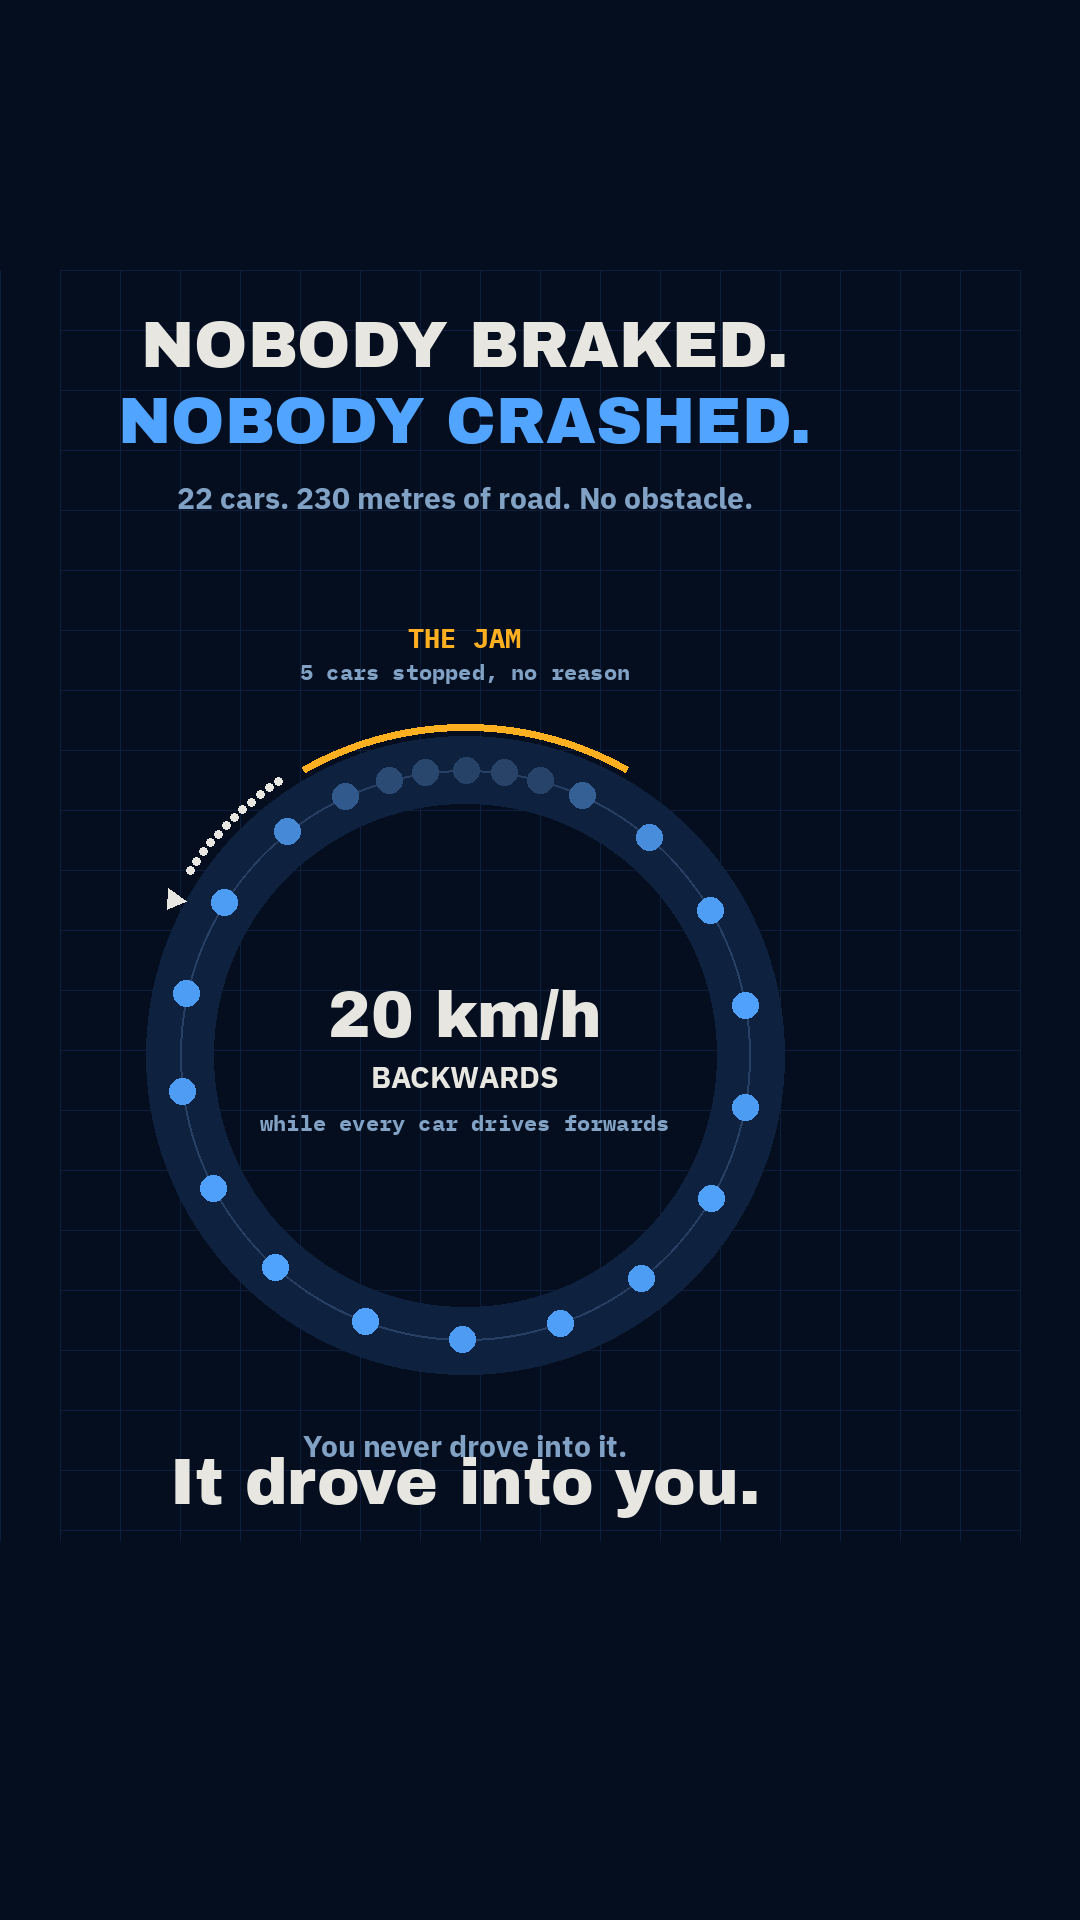
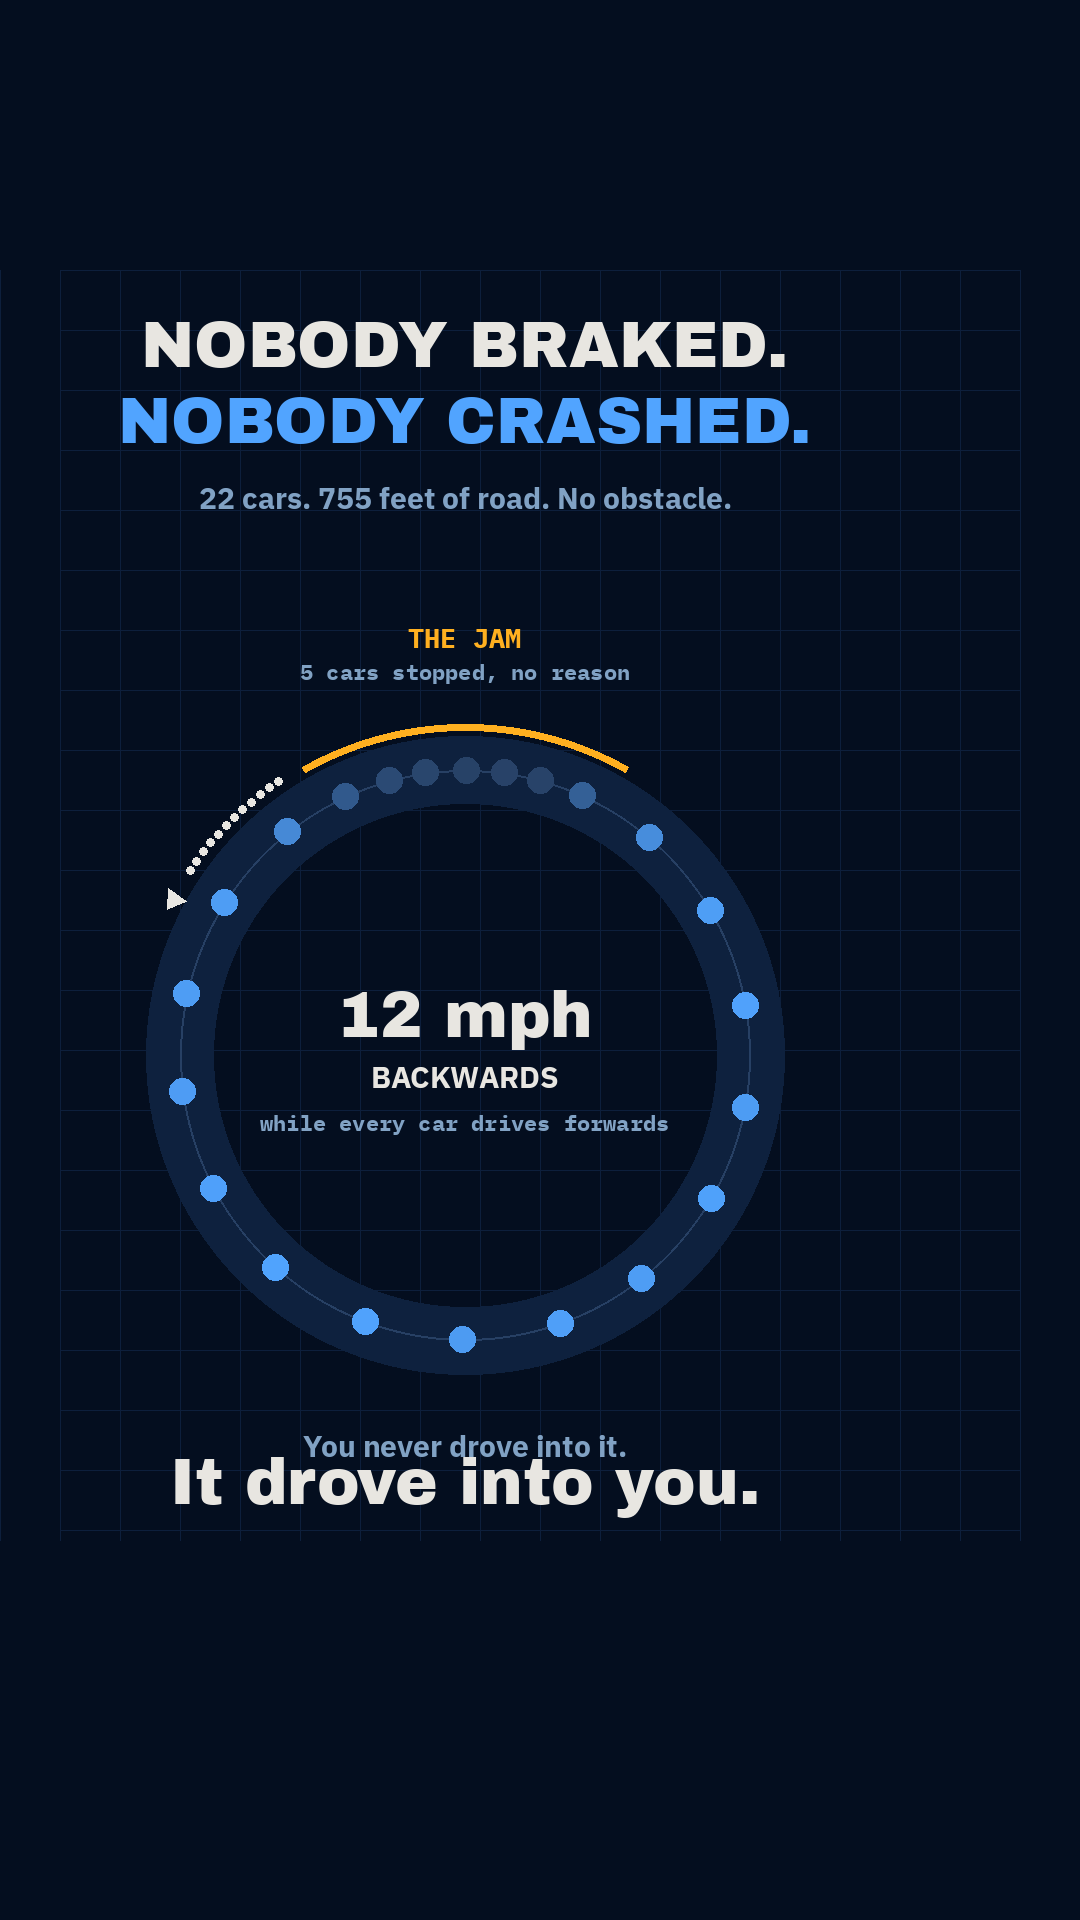
I65: rewrite beat 6, and localise the reel to US units and US words
Beat 6 read "ONE CAR IN TWENTY-TWO / JUST LEFT THE GAP. / 40% LESS FUEL."
The first human to read it asked what it meant, which is the script gate doing
its job for the price of a line of markdown rather than a build cycle.

Two real defects:
  - "left the gap" is ambiguous (departed it, or allowed it to remain?) and only
    parses correctly if you already know the answer. Also British phrasing.
  - "40% LESS FUEL" states no base, breaking non-negotiable 7. It is the whole
    fleet's consumption against the same 22 cars on the same track with the wave
    running, and neither half was on screen.

Now: "ONE CAR IN TWENTY-TWO / STOPPED CHASING THE CAR AHEAD. / EVERY CAR BURNED
40% LESS GAS." with the base and the source on the credit line. The jam
dissolving is shown by the animation and no longer narrated.

Localisation: feet and mph on screen, and US vocabulary throughout - highway not
motorway, gas not petrol, road not tarmac. Reach is this account's problem and
the US pool dominates it, so this is a distribution decision.

Display converts; physics does not. ring.py stays SI end to end with mph(),
feet() and inch() as presentation helpers. Both sources published in metric, so
GATE0.md keeps the metric figures verbatim alongside the computed conversions -
nothing becomes uncheckable against its source.

Claude-Session: https://claude.ai/code/session_01QpzGnmZ4cUecDWDFcqR7Hs

Changed region(s): [[0.1528, 0.25, 0.7028, 0.2812], [0.3056, 0.5, 0.55, 0.5625]]

diff --git a/gate0/i65_phantom_jam/gate0/mock_payoff.py b/gate0/i65_phantom_jam/gate0/mock_payoff.py
@@ -5,7 +5,7 @@ Five minutes of PIL. NOT a render, NOT the reel. It exists only to prove the
 approved sentence can be SHOWN:
 
     "You didn't drive into a traffic jam. The jam drove into YOU -- it's a wave
-     that rolls backwards down the motorway at about 20 km/h, and it was built
+     that rolls backwards down the highway at about 12 mph, and it was built
      out of nothing by people just following the car in front."
 
 Every car on this frame is at a position produced by the real car-following
@@ -31,6 +31,7 @@ FRAME = int(np.argmin(np.abs(T - 360.0)))
 pos, spd = X[FRAME], V[FRAME]
 WAVE = ring.wave_speed(T, X, V)
 WAVE_MEASURED_KMH = 20.0   # Sugiyama et al. 2008 -- the CITED figure, not ours
+WAVE_MEASURED_MPH = WAVE_MEASURED_KMH / 1.609344   # US audience: display only, physics stays SI
 stopped = int((spd < 5 / 3.6).sum())
 
 print(f"frame at t = {T[FRAME]:.0f} s")
@@ -117,13 +118,13 @@ dx, dy = dx / n, dy / n
 d.polygon([(tipx, tipy), (tipx - 18 * dx + 11 * dy, tipy - 18 * dy - 11 * dx),
            (tipx - 18 * dx - 11 * dy, tipy - 18 * dy + 11 * dx)], fill=BONE)
 
-d.text((RCX, RCY - 40), f"{WAVE_MEASURED_KMH:.0f} km/h", font=head_f, fill=BONE, anchor="mm")
+d.text((RCX, RCY - 40), f"{WAVE_MEASURED_MPH:.0f} mph", font=head_f, fill=BONE, anchor="mm")
 d.text((RCX, RCY + 22), "BACKWARDS", font=sub, fill=BONE, anchor="mm")
 d.text((RCX, RCY + 68), "while every car drives forwards", font=mono_s, fill=ASH, anchor="mm")
 
 d.text((CX, SAFE_TOP + 40), "NOBODY BRAKED.", font=head_f, fill=BONE, anchor="ma")
 d.text((CX, SAFE_TOP + 116), "NOBODY CRASHED.", font=head_f, fill=ACCENT, anchor="ma")
-d.text((CX, SAFE_TOP + 208), "22 cars. 230 metres of road. No obstacle.",
+d.text((CX, SAFE_TOP + 208), f"22 cars. {ring.feet(ring.L_RING):.0f} feet of road. No obstacle.",
        font=sub, fill=ASH, anchor="ma")
 
 d.text((CX, SAFE_BOTTOM - 74), "You never drove into it.", font=sub, fill=ASH, anchor="md")
@@ -131,5 +132,6 @@ d.text((CX, SAFE_BOTTOM - 22), "It drove into you.", font=head_f, fill=BONE, anc
 
 out = HERE / "payoff_frame.png"
 img.save(out)
-print(f"\nsim wave {ring.kmh(WAVE):+.2f} km/h   frame shows the CITED {WAVE_MEASURED_KMH:.0f} km/h")
+print(f"\nsim wave {ring.kmh(WAVE):+.2f} km/h = {ring.mph(WAVE):+.2f} mph")
+print(f"frame shows the CITED {WAVE_MEASURED_KMH:.0f} km/h = {WAVE_MEASURED_MPH:.0f} mph")
 print(f"wrote {out}")

diff --git a/gate0/i65_phantom_jam/ring.py b/gate0/i65_phantom_jam/ring.py
@@ -95,7 +95,10 @@ def wave_speed(T, X, Vv, t_from=240.0):
         return 0.0
     return np.polyfit(T, np.unwrap(np.angle(z)), 1)[0] / k
 
-def kmh(a): return a * 3.6
+def kmh(a):  return a * 3.6
+def mph(a):  return a * 2.236936          # m/s -> mph
+def feet(m): return m * 3.280840          # metres -> feet
+def inch(m): return m * 39.37008          # metres -> inches
 
 if __name__ == "__main__":
     print(f"CALIBRATION   V(h*)={kmh(V(H_STAR)):.2f} km/h   ceiling={kmh(V(1e3)):.2f} km/h   "
@@ -112,7 +115,8 @@ if __name__ == "__main__":
     print(f"   slowest car (last 60 s) {kmh(Vv[tail].min()):6.2f} km/h")
     print(f"   fastest car (last 60 s) {kmh(Vv[tail].max()):6.2f} km/h")
     print(f"   speed spread (std dev)  {kmh(Vv[tail].std()):6.2f} km/h")
-    print(f"   WAVE SPEED              {kmh(c):+6.2f} km/h     experiment: about -20 km/h")
+    print(f"   WAVE SPEED              {kmh(c):+6.2f} km/h  = {mph(c):+6.2f} mph"
+          f"     experiment: about -20 km/h = -12 mph")
     print(f"   laps completed by a car {T[-1]*V_TARGET/L_RING:6.1f}   wave laps "
           f"{abs(c)*T[-1]/L_RING:4.1f} the other way\n")
 

diff --git a/gate0/i65_phantom_jam/SCRIPT.md b/gate0/i65_phantom_jam/SCRIPT.md
@@ -1,51 +1,73 @@
 # SCRIPT — `I65`, "a traffic jam with no cause"
 
-**GATE 4. Nothing is coded until this is approved.** No Python beyond the Stage 3 measurement
-(`ring.py`), no `.tsx`, no data module. Read it and say yes or no.
+**GATE 4. Nothing is coded until this is approved.** No `.tsx`, no data module, no reel number
+claimed. Read it and say yes or no.
 
 - **Runtime 46 s** (30–60 s permitted). 7 beats, ≈6.5 s each.
 - **Accent** `#51A4FF` (`languages`, §3). **Amber `#FFB020` = exactly one element per frame**,
-  and it is always *the car or the thing the beat is about* — the perturbed car, then the jam,
-  then the car that fixes it. Never two ambers at once.
-- **THE ONE RULER: a km/h speed bar, on screen continuously from 3.2 s to the end.** Every
-  number in this reel is a speed on that bar. Counts (22 cars, 230 m) are setup, stated once,
-  never used as a measurement again. This is the r009 v1 failure and it does not recur here.
+  always *the car or the thing the beat is about* — the nudged car, then the jam, then the car
+  that fixes it. Never two ambers at once.
+- **THE ONE RULER: an mph speed bar, on screen continuously from 3.2 s to the end.** Every
+  number in this reel is a speed on that bar. Counts (22 cars, 755 feet) are setup, stated
+  once, never reused as a measurement.
+- **US units and US words throughout** (2026-09-11). Physics stays SI inside `ring.py`; only the
+  display converts. Metric equivalents are kept in `gate0/GATE0.md` §5 so every claim stays
+  checkable against its source, which published in metric.
 
 ## The script
 
 | t | Narration — the on-screen words, verbatim | On screen | Why this beat exists |
 |:--|:--|:--|:--|
-| **0.0–3.2** | **YOU CRAWLED FOR TEN MINUTES.**<br>**THERE WAS NOTHING THERE.** | Top-down slice of motorway. Cars nose-to-tail, crawling, speed bar reads **4 km/h**. At 1.6 s the queue ahead pulls away and the road empties; hold 1 s on bare tarmac. | **The hook SHOWS, it does not promise** (+60% on r009). No setup sentence, no pronoun — the object is a road full of cars and the memory is the viewer's own. This is argument-test condition 1: they have personally witnessed this, repeatedly. |
-| **3.2–8.0** | **22 CARS. 230 METRES OF ROAD.**<br>**ONE INSTRUCTION: 30 KM/H.**<br><sub>Nagoya, 2008 — a real experiment</sub> | The motorway strip curls up into the ring (same road, bent — not a cut). 22 cars evenly spaced, all accent blue, all steady. **Speed bar arrives at 30 and stays for the rest of the reel.** | Establishes that there is *nothing to blame*. Without the controlled conditions stated, "no cause" is an assertion; with them it is airtight. The credit rides here so the rest of the reel never has to stop for it. |
-| **8.0–17.0** | **NOBODY BRAKED.**<br>**NOBODY CRASHED.**<br><sub>clock: 0:00 → 1:47 · ×12</sub> | One car drifts **10 cm** out of position — flashes amber for 0.5 s, then back to blue. The wobble passes backward, grows, cars begin to bunch. By 15 s, five cars are stopped. Speed bar spreads from 38 down to 1. | The surprise, and the payoff of the hook's unasked question. The clock is honest about time compression and doubles as the countdown non-negotiable 3 asks for. The 10 cm is the whole causal claim: this much, and nothing else. |
-| **17.0–25.0** | **THE CARS GO FORWARDS.**<br>**THE JAM GOES BACKWARDS.**<br>**20 KM/H.** | Amber arc locks onto the stopped cars. Cars visibly drive *through* it and out the front while the arc slides the other way around the ring. Speed bar splits into two readings: **CARS +30 · JAM −20**. | **The reel.** One number, one direction, on the same ruler as everything else — and it is the one repeatable thing that gets carried into the argument without the video. Everything before this is setup; everything after is consequence. |
-| **25.0–31.0** | **YOU NEVER DROVE INTO IT.**<br>**IT DROVE INTO YOU.** | The ring unrolls back into the motorway strip. One car is labelled **YOU**, driving forward at a steady 30. The jam slides backwards along the road and passes through it: YOU slows to 4, crawls, then comes out the other side onto empty tarmac — the exact frame the reel opened on. | Converts a lab result into the viewer's own Tuesday, and closes the hook's loop on the identical image. **This is the sentence that gets sent**, so it is said plainly, in words with no technical content. |
-| **31.0–40.0** | **ONE CAR IN TWENTY-TWO**<br>**JUST LEFT THE GAP.**<br>**40% LESS FUEL.**<br><sub>Stern et al., 2018 — same track, real cars</sub> | Back to the ring, jam running. One car turns amber and simply stops closing on the car ahead — holds steady while the gap opens. The bunch thins, the arc shrinks and dies. All 22 return to a flat 30 on the speed bar. | The half of this subject that is **not** saturated: coverage stops at "jams form from nothing" and almost never carries the fix. It is also the practical-utility channel, and the reason a viewer sends it to someone rather than just liking it. |
-| **40.0–46.0** | **THE GAP IN FRONT OF YOU**<br>**IS THE BRAKE YOU DON'T HAVE TO USE.**<br><br><sub>Next: why your city's traffic lights aren't broken.</sub> | Held on the smooth ring, all blue, breathing. Speed bar flat at 30. | Non-negotiable 9 — a reason to follow, naming what the next reel does, over the finished visual, held the full stretch. The ask is performable on the phone in their hand: follow. (Next reel = `I66`, already in the backlog.) |
+| **0.0–3.2** | **YOU CRAWLED FOR TEN MINUTES.**<br>**THERE WAS NOTHING THERE.** | Top-down slice of highway. Cars nose-to-tail, crawling, speed bar reads **2 MPH**. At 1.6 s the queue ahead pulls away and the road empties; hold 1 s on bare road. | **The hook SHOWS, it does not promise** (+60% on r009). No setup sentence, no pronoun — the object is a road full of cars and the memory is the viewer's own. Argument-test condition 1: they have personally witnessed this, repeatedly. |
+| **3.2–8.0** | **22 CARS. 755 FEET OF ROAD.**<br>**ONE INSTRUCTION: 19 MPH.**<br><sub>Nagoya, 2008 — a real experiment</sub> | The highway strip curls up into the ring (same road, bent — not a cut). 22 cars evenly spaced, all accent blue, all steady. **Speed bar arrives at 19 and stays for the rest of the reel.** | Establishes that there is *nothing to blame*. Without the controlled conditions stated, "no cause" is an assertion; with them it is airtight. The credit rides here so the rest of the reel never stops for it. |
+| **8.0–17.0** | **NOBODY BRAKED.**<br>**NOBODY CRASHED.**<br><sub>clock: 0:00 → 1:47 · ×12</sub> | One car drifts **four inches** out of position — flashes amber for 0.5 s, then back to blue. The wobble passes backward, grows, cars begin to bunch. By 15 s, five cars are stopped. Speed bar spreads from 24 down to 1. | The surprise, and the payoff of the hook's unasked question. The clock is honest about time compression and doubles as the countdown non-negotiable 3 asks for. Four inches is the whole causal claim: this much, and nothing else. |
+| **17.0–25.0** | **THE CARS GO FORWARDS.**<br>**THE JAM GOES BACKWARDS.**<br>**12 MPH.** | Amber arc locks onto the stopped cars. Cars visibly drive *through* it and out the front while the arc slides the other way around the ring. Speed bar splits into two readings: **CARS +19 · JAM −12**. | **The reel.** One number, one direction, on the same ruler as everything else — and it is the one repeatable thing carried into the argument without the video. Everything before is setup; everything after is consequence. |
+| **25.0–31.0** | **YOU NEVER DROVE INTO IT.**<br>**IT DROVE INTO YOU.** | The ring unrolls back into the highway strip. One car is labelled **YOU**, driving forward at a steady 19. The jam slides backwards along the road and passes through it: YOU slows to 2, crawls, then comes out the other side onto empty road — the exact frame the reel opened on. | Converts a lab result into the viewer's own Tuesday, and closes the hook's loop on the identical image. **This is the sentence that gets sent**, so it is said plainly, with no technical content. |
+| **31.0–40.0** | **ONE CAR IN TWENTY-TWO**<br>**STOPPED CHASING THE CAR AHEAD.**<br>**EVERY CAR BURNED 40% LESS GAS.**<br><sub>vs. the same 22 cars with the wave running — Stern et al., 2018</sub> | Back to the ring, jam running. One car turns amber and simply stops closing on the car ahead — holds steady while the gap opens ahead of it. The braking wave reaches it, is absorbed by the spare room, and is not passed back. The bunch thins, the arc shrinks and dies. All 22 return to a flat 19. | The half of this subject that is **not** saturated: coverage stops at "jams form from nothing" and almost never carries the fix. It is the practical-utility channel, and the reason a viewer sends it rather than just liking it. **The jam dissolving is SHOWN, never narrated** — the words carry only what the picture cannot. |
+| **40.0–46.0** | **THE GAP IN FRONT OF YOU**<br>**IS THE BRAKE YOU DON'T HAVE TO USE.**<br><br><sub>Next: why your city's traffic lights aren't broken.</sub> | Held on the smooth ring, all blue, breathing. Speed bar flat at 19. | Non-negotiable 9 — a reason to follow, naming what the next reel does, over the finished visual, held the full stretch. The ask is performable on the phone in their hand: follow. (Next reel = `I66`, already in the backlog.) |
+
+## Beat 6, and why it was rewritten
+
+The first draft read **"ONE CAR IN TWENTY-TWO / JUST LEFT THE GAP. / 40% LESS FUEL."** The first
+human to read it asked what it meant, which is the gate doing its job for the price of a line of
+markdown. Two real defects:
+
+1. **"left the gap" is ambiguous** — *departed* the gap, or *allowed it to remain*? It only reads
+   correctly if you already know the answer. It is also British-English phrasing.
+2. **"40% LESS FUEL" states no base**, which breaks non-negotiable 7 — *every percentage gets one
+   stated base*. Less than what, and whose fuel? It is the **whole fleet's** consumption against
+   **the same cars on the same track with the wave running**, and neither half was on screen.
+
+**What the beat actually claims, in full:** every one of the 22 drivers is doing the normal thing
+— close the gap when it opens, brake when you get near. That chase-and-brake *is* the wave. One
+driver stops doing it and lets a bigger gap open. That gap is a shock absorber: when the braking
+wave arrives from ahead, that car has spare room, so it never brakes hard, so it never hands the
+braking back to the car behind. The wave reaches that one car and dies. The other 21 did nothing.
 
 ## What is claimed, and on whose authority
 
-| On screen | Whose number |
-|:--|:--|
-| 22 cars · 230 m · 30 km/h · 20 km/h backwards | **Sugiyama et al. 2008.** Cited, not ours. |
-| 40% less fuel | **Stern et al. 2018.** Cited, not ours. |
-| Everything that MOVES | **Ours** — `ring.py`, a real car-following model, played back. The animation is computed, never keyframed. |
+| On screen | Published as | Whose number |
+|:--|:--|:--|
+| 22 cars · 755 feet · 19 mph · 12 mph backwards | 22 cars · 230 m · ~30 km/h · ~20 km/h | **Sugiyama et al. 2008.** Cited, not ours. |
+| 40% less gas, fleet-wide, vs. the wave running | same | **Stern et al. 2018.** Cited, not ours. |
+| Everything that MOVES | — | **Ours** — `ring.py`, a real car-following model, played back. Computed, never keyframed. |
 
 **The jam forming, persisting, and dying when one car holds its gap are all emergent outputs of
 the model, not authored.** Three model parameters are calibrated to the experiment's three
 measured properties, so those three numbers are attributed to the experiment above. The critical
-density was *not* calibrated and lands on the experiment's value anyway (smooth at ≤20 cars,
-jams at ≥22) — see `gate0/GATE0.md` §5.
+density was *not* calibrated and lands on the experiment's value anyway — see `gate0/GATE0.md` §5.
 
 ## Pre-handover checklist
 
 | Check | Status |
 |:--|:--|
-| ONE ruler | **Yes** — km/h speed bar, 3.2 s to end, every number on it |
+| ONE ruler | **Yes** — mph speed bar, 3.2 s to end, every number on it |
 | Hook shows rather than promises | **Yes** — the crawl and the empty road, by 3.2 s, no setup |
 | Names ride on objects | **Yes** — YOU on the car, THE JAM on the arc; no caption slot |
-| Never more than three text blocks | **Yes** — max 3, in beats 3 and 6 |
+| Never more than three text blocks | **Yes** — max 3 (+ one subordinate credit line) |
 | No jargon | **Yes** — "instability", "critical density", "car-following model", "FollowerStopper" appear nowhere |
+| No British English | **Yes** — highway not motorway, gas not petrol, road not tarmac |
+| Every percentage has a stated base | **Yes** — fixed in beat 6 |
 | Every claim traced | **Yes** — table above; full grading in `gate0/GATE0.md` §5 |
 | Opens on a civilian object and never leaves it | **Yes** — cars on a road, every frame |
 | Ends on a reason to follow | **Yes** — beat 7 |
@@ -54,5 +76,5 @@ jams at ≥22) — see `gate0/GATE0.md` §5.
 
 **Genre saturation.** The backward wave is standard in phantom-jam explainers. The reel is
 therefore built on **argument ammunition and practical utility, not novelty** — the `r005`
-channels, which saturation does not damage. If it fails, the most likely reason is that the
-viewer already knew the fix in beat 6, and Gate 5 is the cheapest place to find that out.
+channels, which saturation does not damage. If it fails, the likeliest reason is that the viewer
+already knew the fix in beat 6, and Gate 5 is the cheapest place to find that out.

diff --git a/gate0/i65_phantom_jam/gate0/GATE0.md b/gate0/i65_phantom_jam/gate0/GATE0.md
@@ -9,7 +9,7 @@ Written 2026-09-11, the first concept run under the gate sequence added the same
 ## 1. The sentence — G2
 
 > **"You didn't drive into a traffic jam. The jam drove into YOU — it's a wave rolling
-> backwards down the motorway at about 20 km/h, and it was built out of nothing by people
+> backwards down the highway at about 12 mph, and it was built out of nothing by people
 > just following the car in front."**
 
 Not "phantom traffic jams are caused by driver reaction delay". That is the same fact with
@@ -77,6 +77,25 @@ attribute them to the experiment, not to us.
 **The falsification control is the density sweep.** 8, 12, 14, 16, 17, 18, 20 cars on the same
 ring stay perfectly smooth; 22, 26, 30 jam. A model that jammed at every density would be
 worthless, and the first version of this script did exactly that — see §7.
+
+### Units — US display, SI physics (decided 2026-09-11)
+
+The reel displays **feet and mph**, and uses US vocabulary (highway, gas, road — not motorway,
+petrol, tarmac). Instagram reach is dominated by the US pool and reach is this account's actual
+problem, so the localisation is a distribution decision, not a style one.
+
+**Only the display converts. `ring.py` stays SI end to end** — the model, the integration and
+every measurement above are metres and m/s, with `mph()`, `feet()` and `inch()` as presentation
+helpers. Both sources published in metric, so the metric figures are kept here verbatim and the
+conversions are computed, never typed:
+
+| On screen | Source figure | Exact |
+|:--|:--|:--|
+| 755 feet | 230 m | 754.59 ft |
+| 19 mph | ~30 km/h | 18.64 mph |
+| 12 mph backwards | ~20 km/h | 12.43 mph |
+| four inches | 10 cm | 3.94 in |
+| 2 mph crawl | 4 km/h | 2.49 mph |
 
 ### Licence
 
